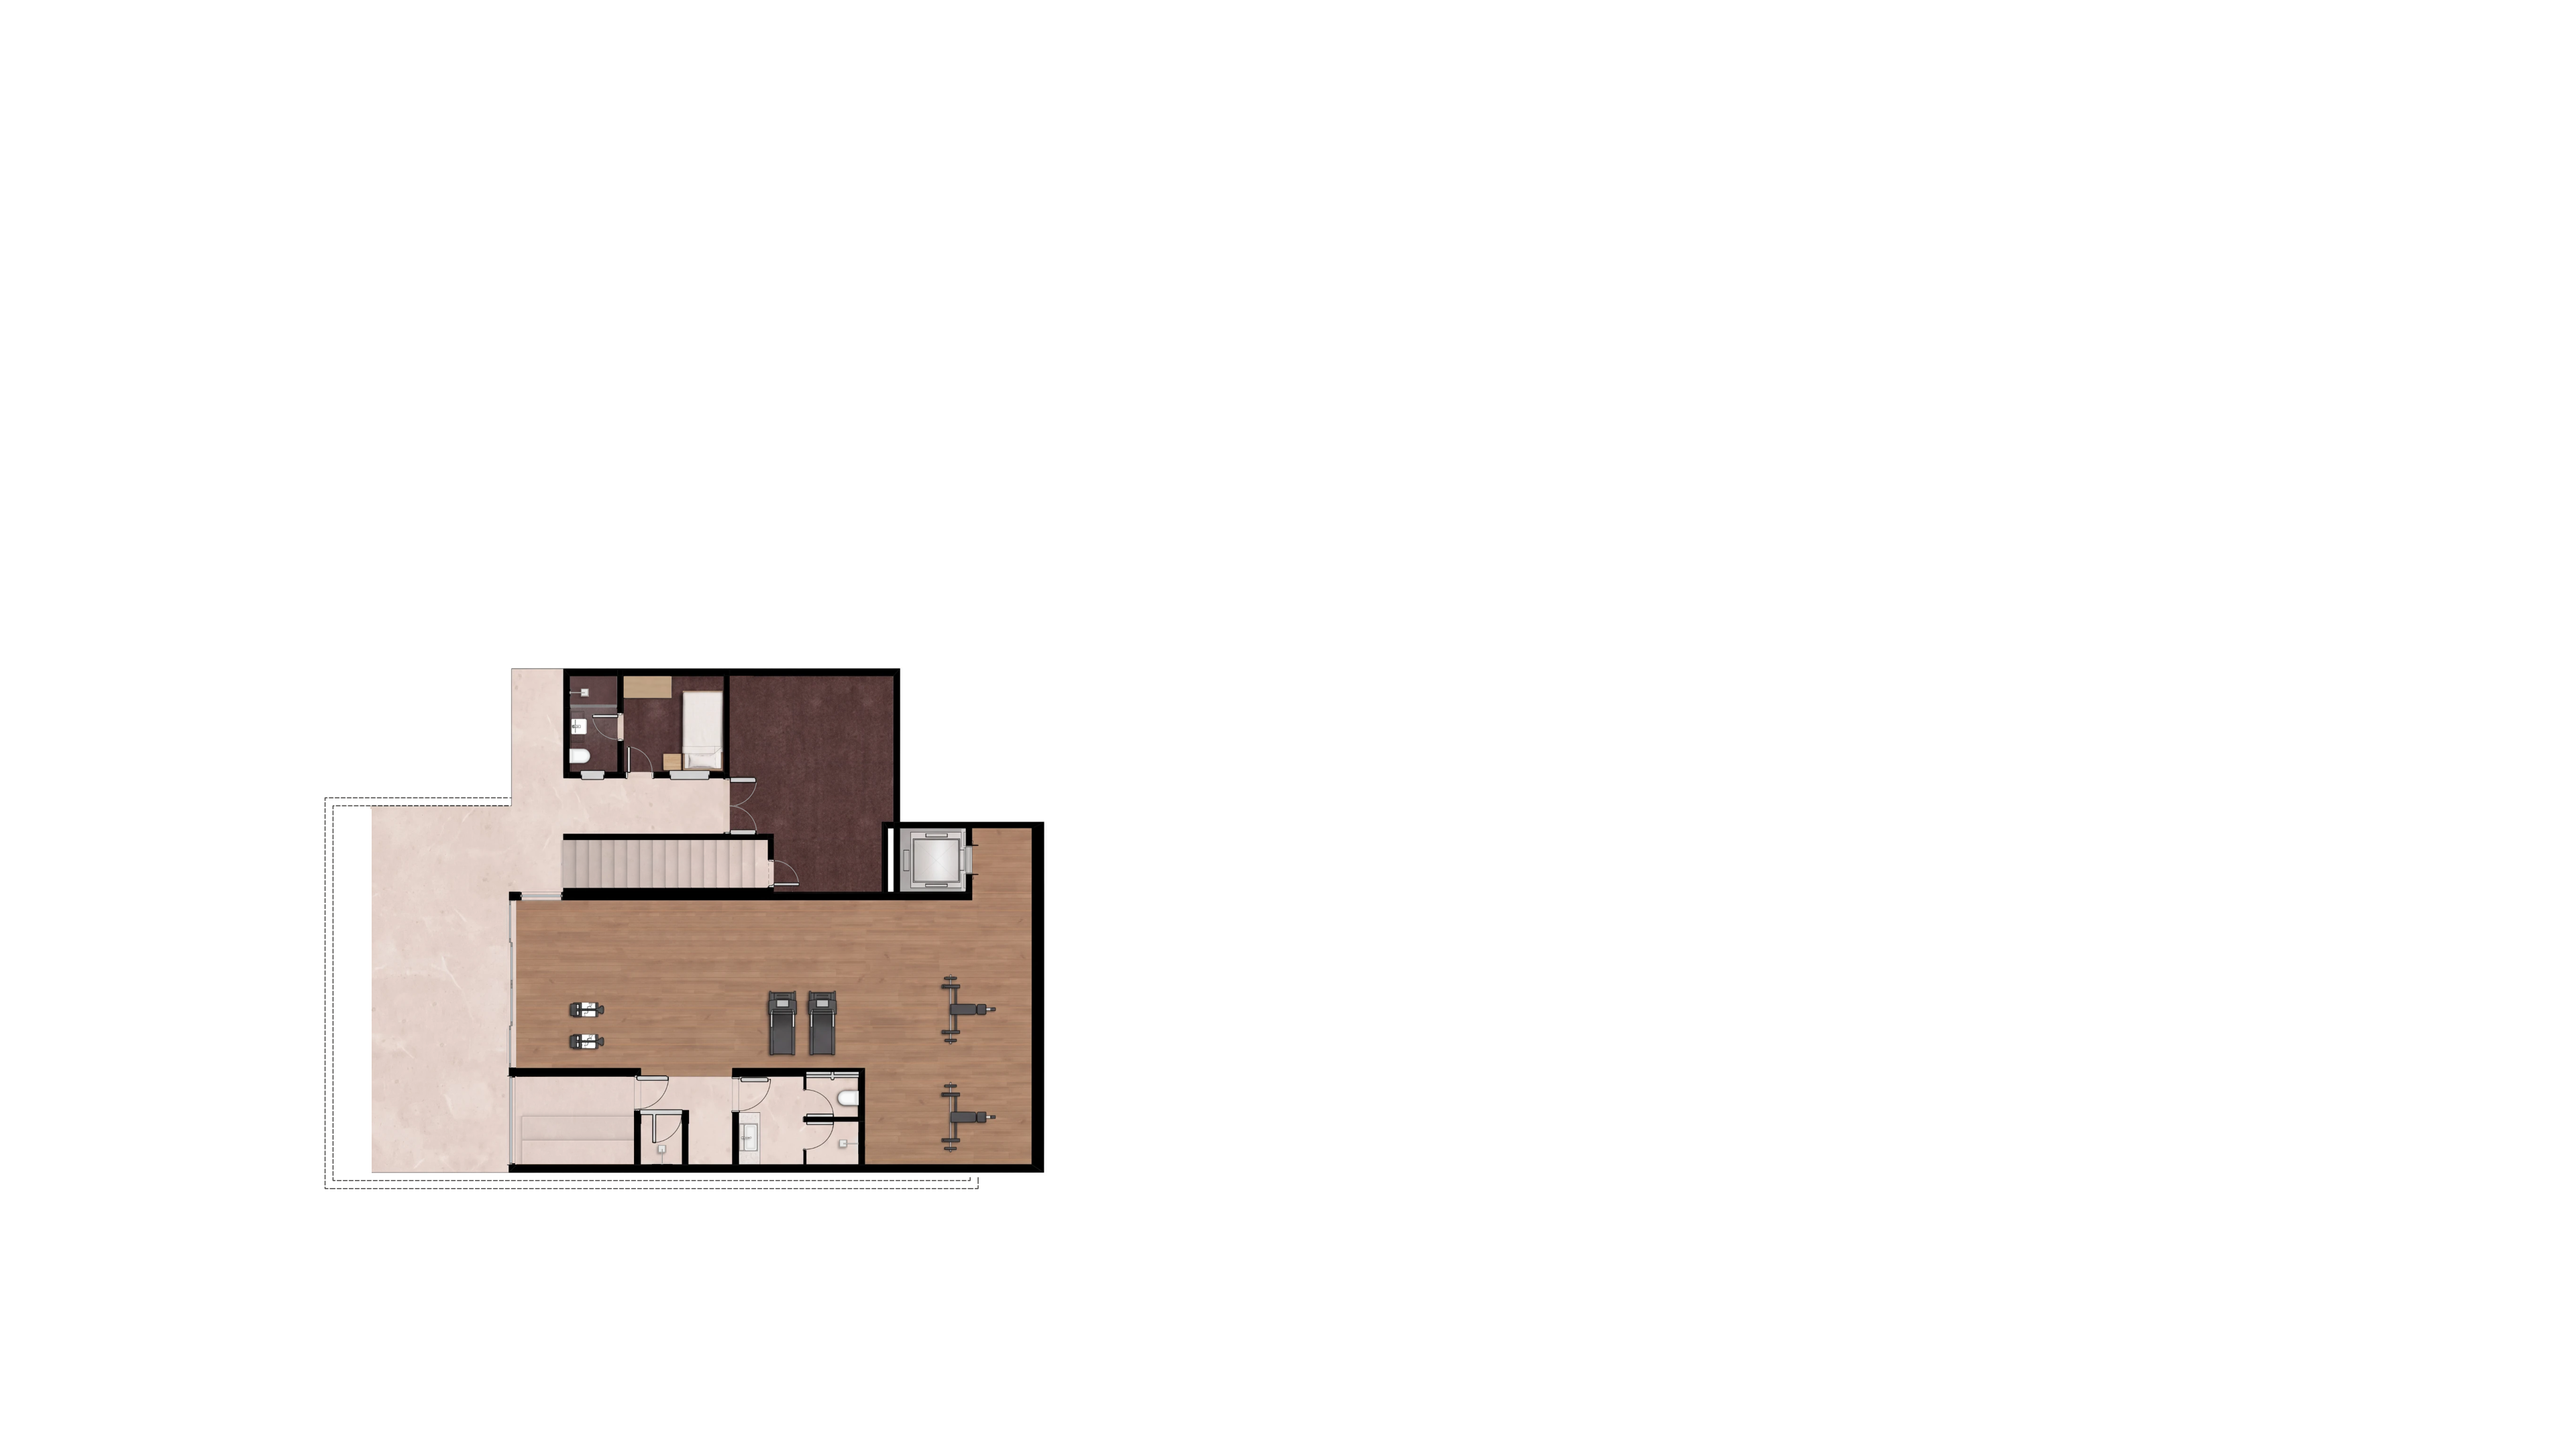
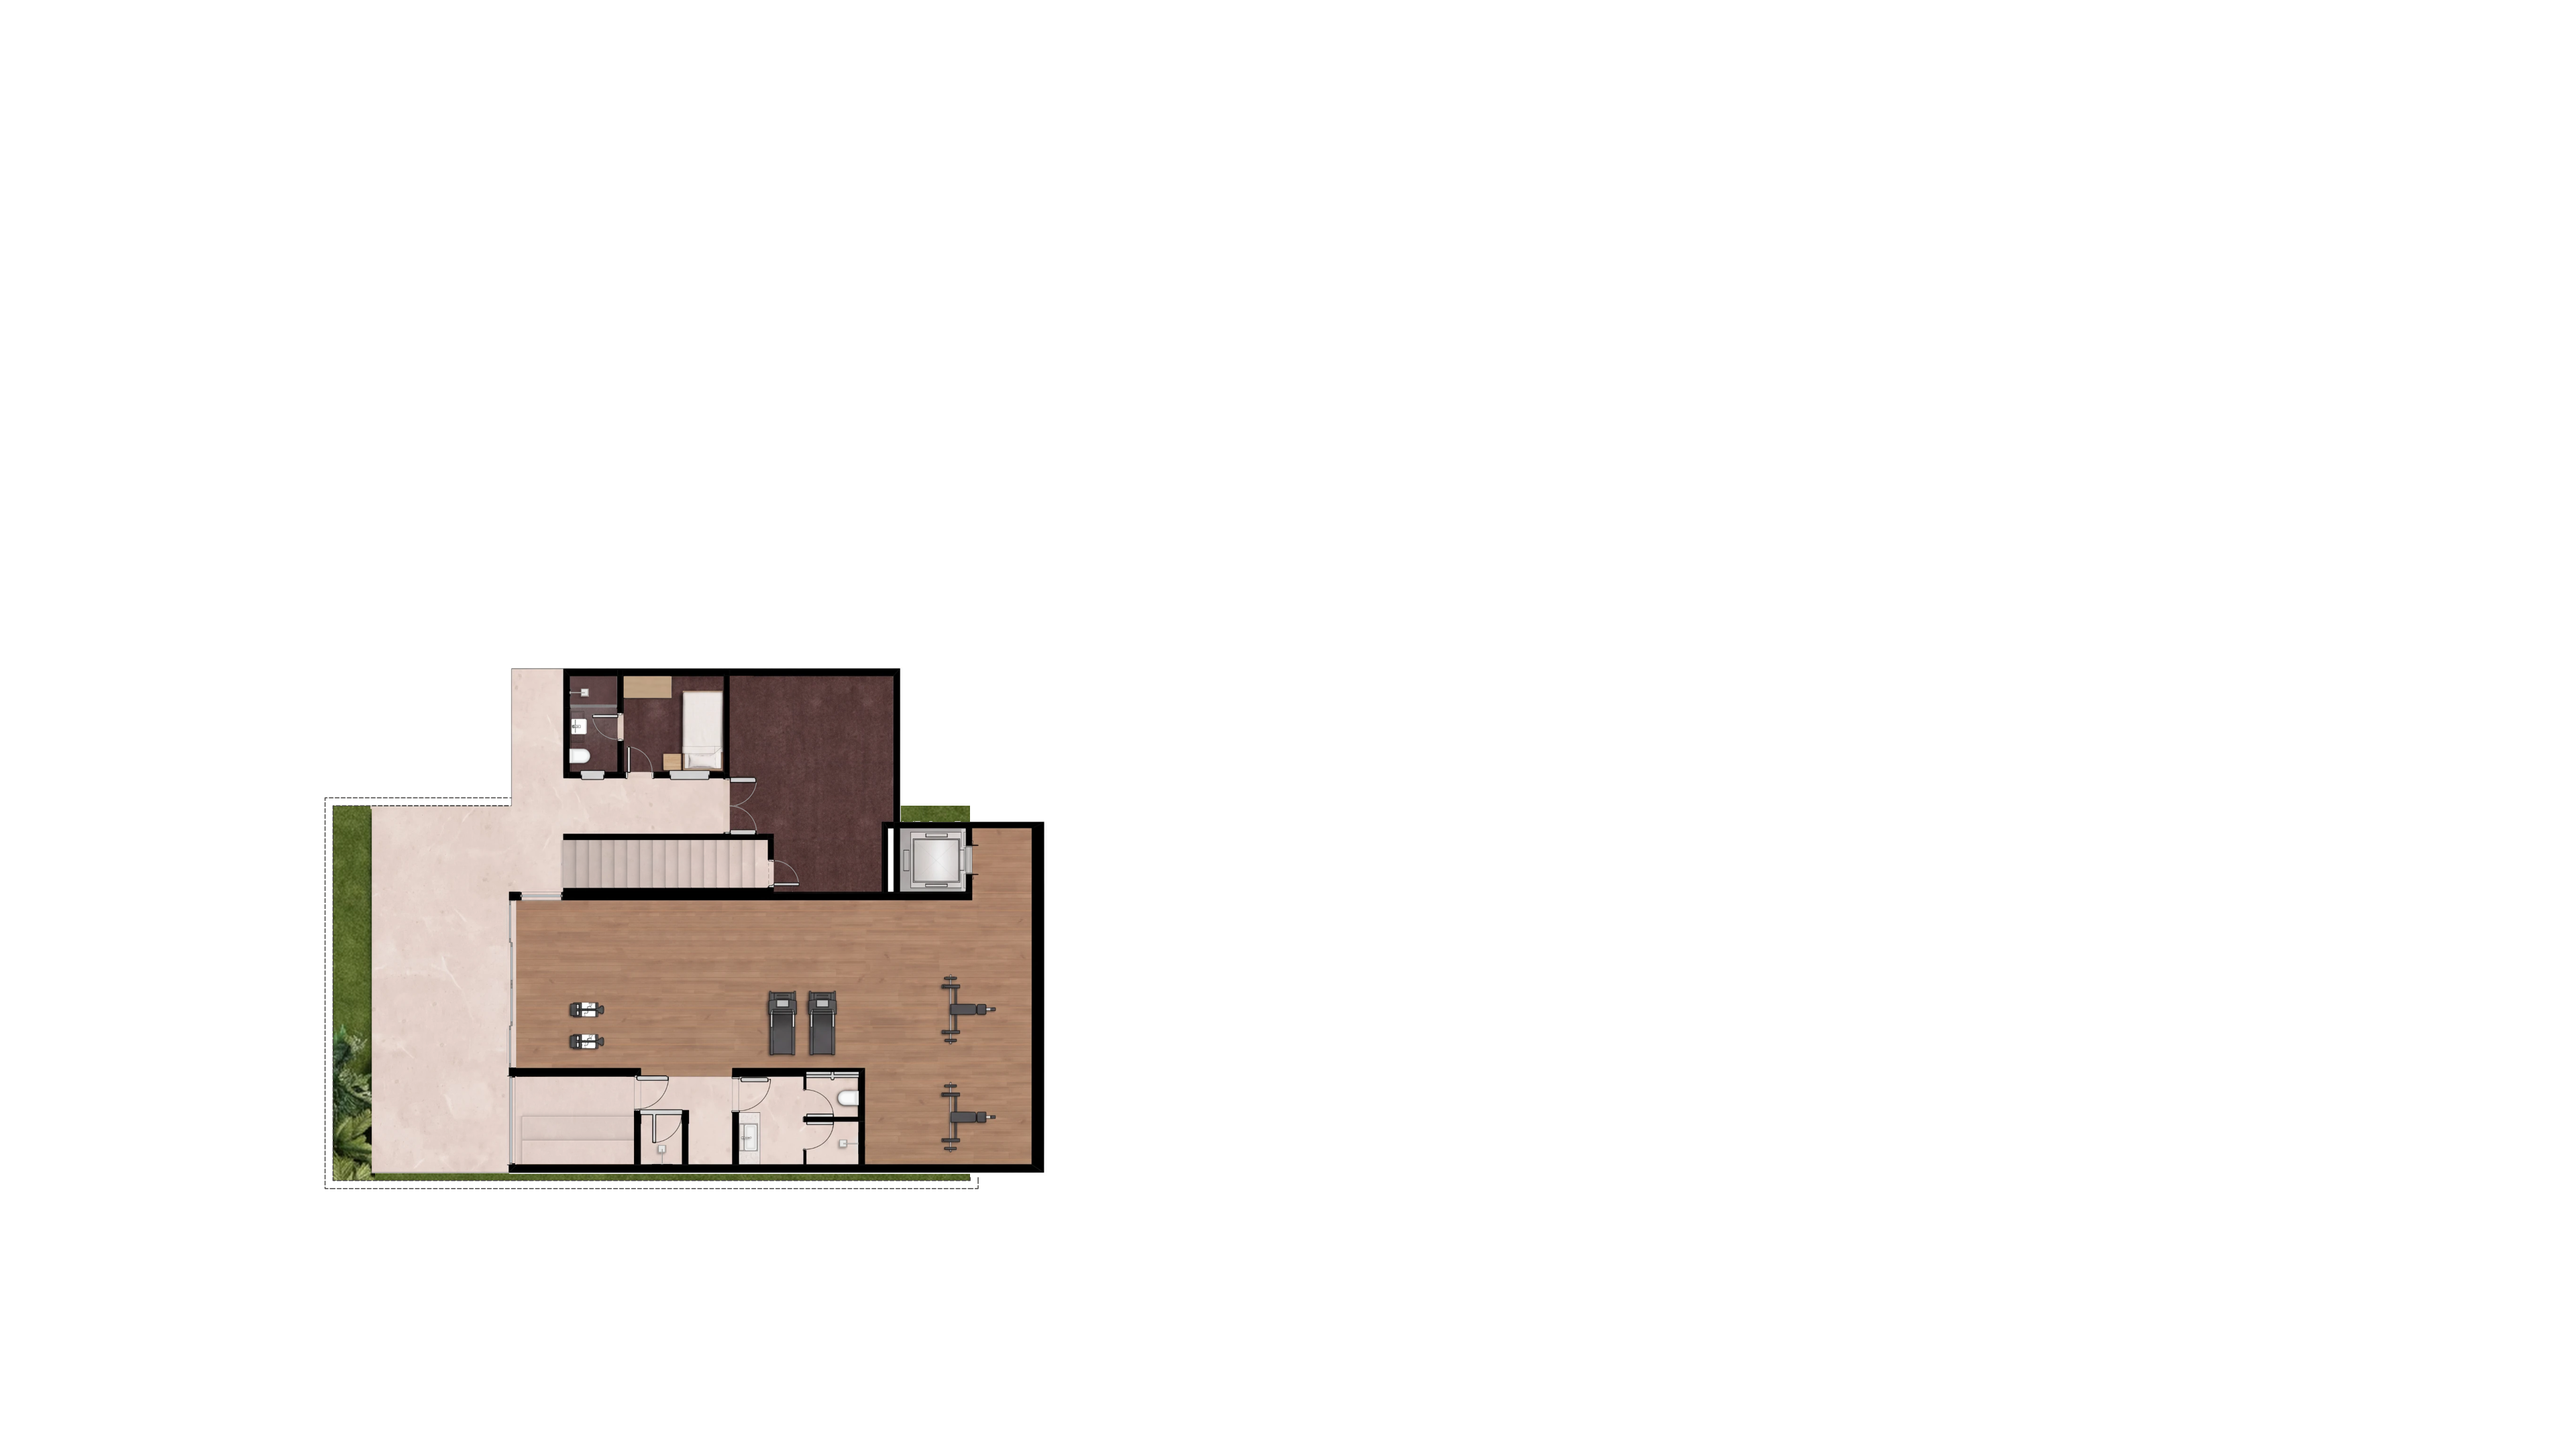
Casa D Subsolo: área verde entre o pátio e a parede tracejada, com o jardim do Térreo
Claude-Session: https://claude.ai/code/session_01Mm19WX3KoLN1nXMDF5Ay3F

Changed region(s): [[0.125, 0.5583, 0.375, 0.8375], [0.3438, 0.5583, 0.375, 0.5894]]

diff --git a/projetos/POE642_CasaA/scripts/retoque_subsolo_casad.py b/projetos/POE642_CasaA/scripts/retoque_subsolo_casad.py
@@ -57,6 +57,11 @@ Itens (o mapa está em POE642_CasaD/renders/POE642_CasaD_PH_Subsolo_v1_erros.jpg
     fez como cápsulas cinza de ~8 px, ficam finas, na espessura do PDF (4,2 px), em inox com contorno
     fino; a soleira, branca chapada, vira a de entrada de elevador: inox escovado no sentido da porta,
     com os dois frisos-guia, entre os batentes de alumínio.
+20. Área verde (pedido do usuário): a faixa entre o pátio e a parede tracejada de fora (à esquerda, e
+    a faixa estreita embaixo, até o tracejado de dentro) é jardim, como a lateral do lote no Térreo:
+    no quadro comum, a faixa da esquerda recebe o jardim vizinho do Térreo retocado na mesma altura
+    (grama em cima, as touceiras de samambaias e palmeiras embaixo) e a de baixo, grama tecida da
+    grama limpa do Térreo; só o fundo branco muda (pátio, prédio e peças brancas ficam).
 12. Pátio: a parede tracejada dupla de fora (à esquerda, embaixo e no alto), que o motor apagou ou
     cortou, volta: os traços do PDF (ARQ_PAREDE, fora da planta) desenhados no quadro comum.
 
@@ -312,6 +317,14 @@ ELEVADOR_ENTRADA = {
     "batentes": [(1550.6, 402.7, 1563.3, 404.8), (1550.6, 459.7, 1563.3, 461.8)],
     "frisos": (1554.0, 1559.6), "larg_friso": 0.8,
     "inox": (190, 192, 195), "inox_folha": (200, 202, 205), "friso": (112, 115, 118), "brilho": (222, 224, 226),
+}
+
+AREA_VERDE = {
+    "ret_vis": (132.2, 648.0, 644.5, 949.3),   # dentro do tracejado de dentro (vis de 1800 px)
+    "esquerda_ate_vis": 166.0,                 # a faixa da esquerda (até o pátio, com folga)
+    "desloc": -66,                             # px do quadro: o jardim do Térreo logo à esquerda
+    "grama": [(370, 1160, 490, 1500)],         # grama limpa do Térreo no quadro de 3840
+    "branco": 235,                             # só o fundo claro vira jardim
 }
 
 
@@ -943,6 +956,48 @@ def no_quadro(out, A):
     return final
 
 
+def area_verde(final):
+    from PIL import Image
+    from rodape_entrega import no_quadro_comum
+    q = AREA_VERDE
+    cfg = json.loads(CONFIG.read_text())
+    ent = cfg["entrega"]
+    base_t = RAIZ / "POE642_CasaD" / ent["pasta_bases"] / ent["pavimentos"]["Terreo"]["base"]
+    HF, WF = final.shape[:2]
+    terreo = no_quadro_comum(Image.open(str(TERREO_RETOCADO)).convert("RGB"), base_t, "Terreo", WF)
+    terreo = cv2.cvtColor(np.asarray(terreo), cv2.COLOR_RGB2BGR)
+    ht, wt = cv2.imread(str(BASE_CHAPADA), cv2.IMREAD_GRAYSCALE).shape
+    hb, wb = cv2.imread(str(BASE_SEM_TELA), cv2.IMREAD_GRAYSCALE).shape
+    kv = wb / cfg["largura_visualizacao"]
+
+    def quadro(xv, yv):
+        return (((wt - wb) // 2 + xv * kv) * WF / wt, ((ht - hb) // 2 + yv * kv) * HF / ht)
+
+    (x0, y0), (x1, y1) = quadro(*q["ret_vis"][:2]), quadro(*q["ret_vis"][2:])
+    x0, y0, x1, y1 = int(round(x0)), int(round(y0)), int(round(x1)), int(round(y1))
+    xe = int(round(quadro(q["esquerda_ate_vis"], 0)[0]))
+    chapada = cv2.resize(cv2.imread(str(BASE_CHAPADA)), (WF, HF), interpolation=cv2.INTER_NEAREST)
+    nb = (chapada.min(axis=2) < 245).astype(np.uint8)
+    n, lab, st, _ = cv2.connectedComponentsWithStats(nb)
+    planta = ndimage.binary_fill_holes(np.isin(lab, [i for i in range(1, n) if st[i, cv2.CC_STAT_AREA] > 5000]))
+    reg = final[y0:y1, x0:x1]
+    m = ~planta[y0:y1, x0:x1] & (reg.min(axis=2) >= q["branco"])
+    jardim = np.zeros_like(reg, dtype=np.float32)
+    d = q["desloc"]
+    jardim[:, :xe - x0] = terreo[y0:y1, x0 + d:xe + d]
+    fontes = []
+    for gx0, gy0, gx1, gy1 in q["grama"]:
+        g = terreo[gy0:gy1, gx0:gx1].astype(np.float32)
+        fontes += [np.ascontiguousarray(v) for v in (g, g[:, ::-1], g[::-1, :], g[::-1, ::-1])]
+    resto = x1 - xe
+    jardim[:, xe - x0:] = quilting(fontes, y1 - y0, resto, p=24, sobra=8, candidatos=500)[:y1 - y0, :resto]
+    a = cv2.GaussianBlur(m.astype(np.float32), (0, 0), 0.6)
+    a = np.maximum(a, m)[..., None]
+    final[y0:y1, x0:x1] = np.clip(reg * (1 - a) + jardim * a, 0, 255).astype(np.uint8)
+    print(f"    área verde: {int(m.sum())} px (jardim do Térreo na faixa da esquerda, grama tecida embaixo)")
+    return final
+
+
 def tracejado(final):
     """Traços do tracejado de fora (ARQ_PAREDE) do PDF, direto no quadro comum (sem o afim do render)."""
     q = TRACEJADO
@@ -1028,6 +1083,8 @@ def main():
 
     print("[escala] quadro comum das bases, com a planta sob a do Térreo")
     final = no_quadro(out, alinhar_base(orig))
+    print("[20] área verde entre o pátio e a parede tracejada")
+    final = area_verde(final)
     print("[12] pátio: tracejado de fora")
     final = tracejado(final)
     nome_final = args.nome.replace("_retocado", "") + "_final"

diff --git a/projetos/POE642_HANDOFF_SESSAO_LOCAL.md b/projetos/POE642_HANDOFF_SESSAO_LOCAL.md
@@ -449,3 +449,4 @@ python texturizar_base.py Subsolo ../../POE642_CasaC/bases/POE642_CasaC_BASE_Sub
   17. portas de vidro de acesso à academia (pedido do usuário: mais finas): as quatro folhas de correr (dois trilhos), cápsulas cinza de ~10 px no render, foram refeitas em 8 x na espessura do PDF (3,4 px): vidro claro com a linha central fina, montantes de alumínio nas pontas, contorno fino e batentes; o vão (a faixa branca entre as folhas e o vinílico) virou soleira de Bege Bahia, no tom do pátio. A janela alta no canto da academia e o vidro da sauna continuam como o render fez.
   18. vidro da sauna e janela alta da academia (pedido do usuário: finos como as portas): as barras grossas do render saíram; o vidro fixo foi refeito na espessura do PDF (vidro claro, linha central, caixilhos de alumínio e contorno fino), peitoril e soleira em Bege Bahia, retornos da parede em preto e as faces da parede em traço fino e claro (como no PDF); na janela, a faixa de vinílico que a barra cobria voltou.
   19. entrada do elevador (pedido do usuário): as duas folhas da porta recolhidas no poço, cápsulas cinza de ~8 px no render, saíram (cinza do poço) e foram redesenhadas na espessura do PDF (4,2 px), em inox com contorno fino; a soleira branca virou a de entrada de elevador: inox escovado no sentido da porta, com os dois frisos-guia, entre os batentes de alumínio.
+  20. área verde (pedido do usuário, com um trecho do Térreo como referência): a faixa entre o pátio e a parede tracejada de fora (à esquerda, e a faixa estreita embaixo, até o tracejado de dentro) virou jardim no quadro comum: a da esquerda recebe o jardim vizinho do Térreo retocado na mesma altura (grama em cima, touceiras de samambaias e palmeiras embaixo; 66 px à esquerda no quadro de 3840) e a de baixo, grama tecida da grama limpa do Térreo. Só o fundo branco fora da planta muda.

diff --git a/projetos/POE642_CasaA/scripts/README.md b/projetos/POE642_CasaA/scripts/README.md
@@ -289,6 +289,7 @@ O render do Subsolo manteve o layout, mas aproximou a planta (~2,73 x a base red
 - **Cuba do vestiário (erro 10):** `cuba_vestiario` (aba, bacia em degradê, válvula e torneira com contorno escuro e sombra curta, em 8x).
 - **Esteiras (erro 11):** `letreiros` tira o texto das lonas.
 - **Pedidos depois do retoque (13 a 17):** `arcos_granito` (o arco preto sai e entra o cinza fino do PDF, só no granito da base chapada); `escada` (Bege Bahia refeito sem linhas, pisos do PDF escurecendo para baixo e sombra curta de cada espelho no piso de baixo); `sauna` com o banco no mesmo mármore do piso, níveis pela sombra e pela quina, luz chapada; `vasos` (polígono do PDF em 8 x: louça com volume, contorno, sombra e tampo fechado); `portas_vidro` (folhas de correr na espessura do PDF, com vidro, linha central, montantes e soleira).
+- **18 a 20:** `vidros_fixos` (janela alta e vidro da sauna no desenho das portas de vidro); `elevador_entrada` (folhas da porta finas em inox, soleira de inox escovado com frisos-guia entre batentes de alumínio); `area_verde` (no quadro comum: jardim do Térreo retocado, alinhado pela rotina das pranchas, na faixa entre o pátio e o tracejado, e grama tecida na faixa de baixo; só o fundo branco fora da planta).
 - **Escala e tracejado (erro 12):** `no_quadro` leva o retocado ao quadro comum das bases (3840 x 2160, inverso da cadeia, 2 x de superamostragem) e deixa branco o que fica fora da mancha da planta; `tracejado` desenha ali os traços da parede tracejada de fora (ARQ_PAREDE) direto do PDF, inclusive o trecho de baixo que o render cortou. Saídas: `_retocado` (quadro do render) e `_final` (quadro comum, com a planta sob a do Térreo).
 
 ```bash
